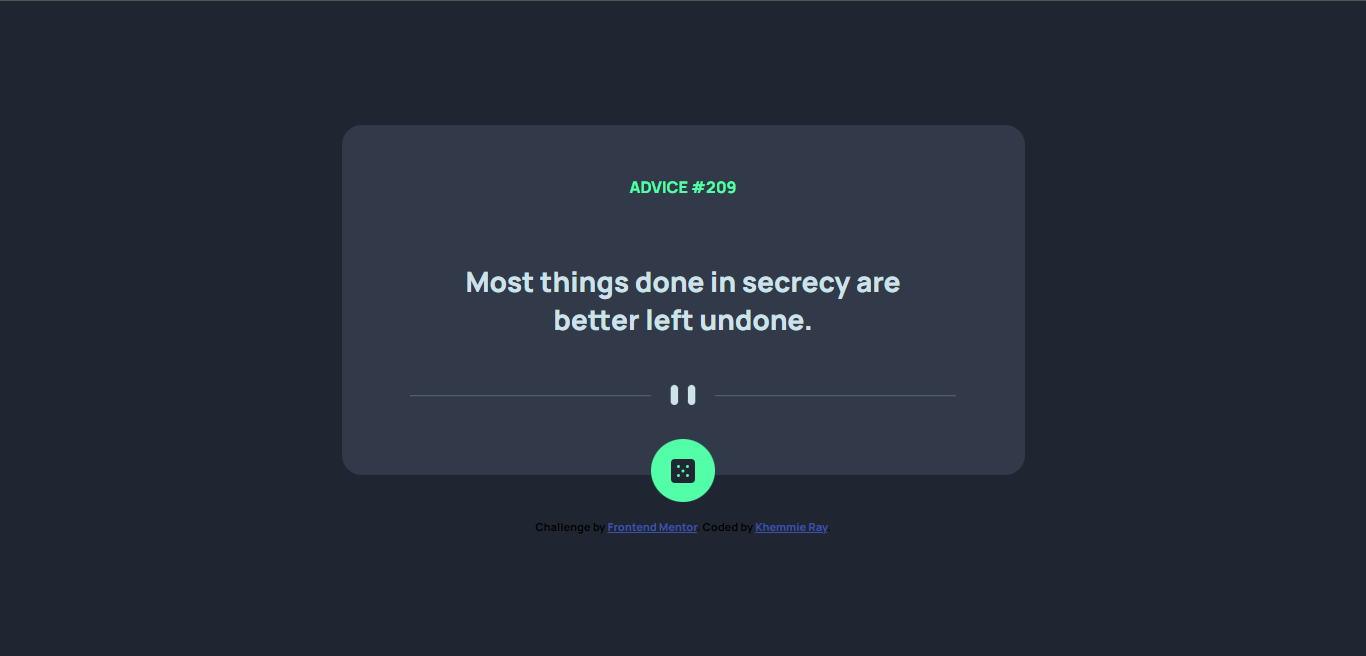
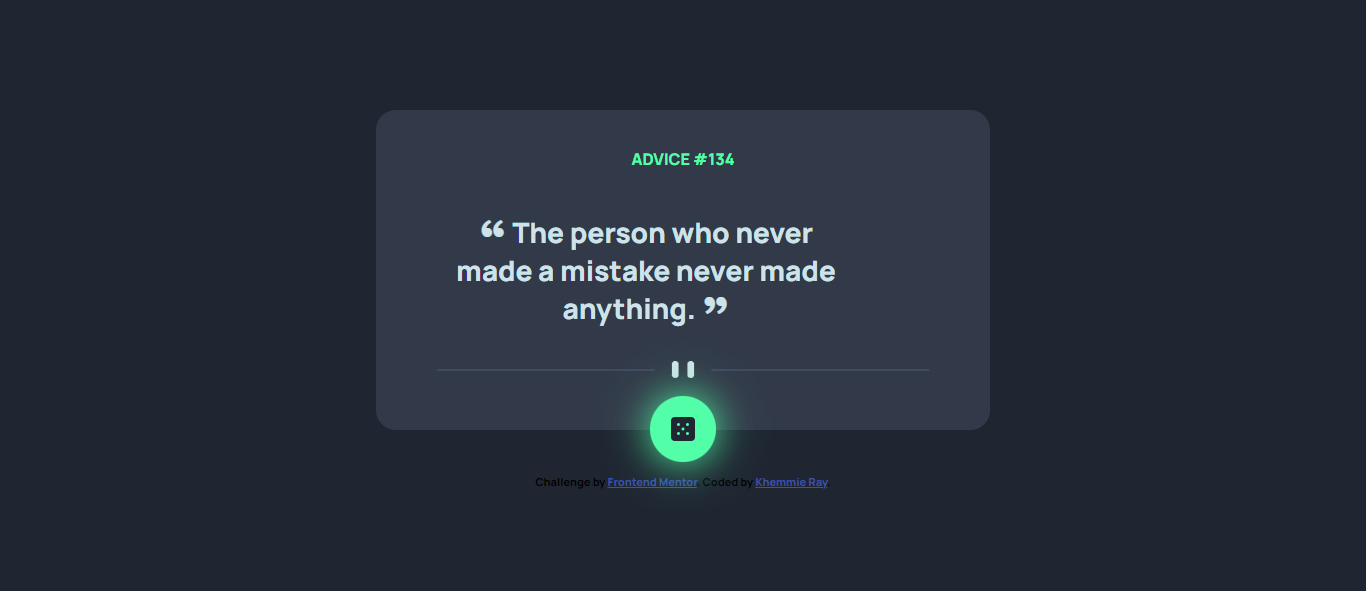
updates to the ui

Changed region(s): [[0.3382, 0.3655, 0.6764, 0.5482], [0.3997, 0.5787, 0.6149, 0.8223], [0.4612, 0.2437, 0.5534, 0.3046]]

diff --git a/index.html b/index.html
@@ -10,13 +10,14 @@
     .attribution { font-size: 11px; text-align: center; }
     .attribution a { color: hsl(228, 45%, 44%); }
   </style>
+  <link rel="stylesheet" href="https://cdn.jsdelivr.net/npm/remixicon@2.3.0/fonts/remixicon.css">
   <link rel="stylesheet" href="style.css">
   <script src="app.js" defer></script>
 </head>
 <body>
   <main class="container">
     <p id="adviceId" class="title">Advice #118</p>
-    <h1 id="adviceText">"Common regret in life is wishing one had the courage to be ones true self."</h1>
+    <h1 id="adviceText" class="text"><i class="ri-double-quotes-l"></i> Common regret in life is wishing one had the courage to be ones true self. <i class="ri-double-quotes-r"></i></h1>
     <img class="divider" src="images/pattern-divider-desktop.svg" alt="">
     <div class="Btn" >
     <input id="get-advice" type="image" src="images/icon-dice.svg" alt="dice" />

diff --git a/app.js b/app.js
@@ -4,8 +4,9 @@ document.getElementById('get-advice').addEventListener('click', () => {
         .then(data => {
             document.getElementById('adviceId').textContent = 
             `ADVICE #${data.slip.id}`
-            document.getElementById('adviceText').textContent =
-            `"${data.slip.advice}"`
+            document.getElementById('adviceText').innerHTML =
+            `<h1 class="text"><i class="ri-double-quotes-l"></i>
+             ${data.slip.advice} <i class="ri-double-quotes-r"></i>`
         })
 })
 

diff --git a/style.css b/style.css
@@ -64,7 +64,7 @@ body,
     width: 80%;
 }
 
-#adviceText {
+.text {
     text-align: center;
     font-size: 28px;
     width: 85%;
